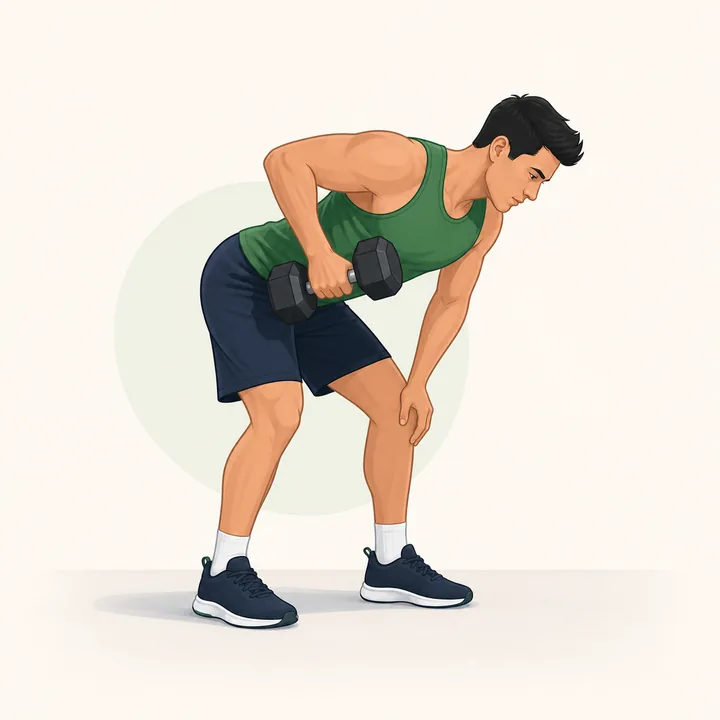
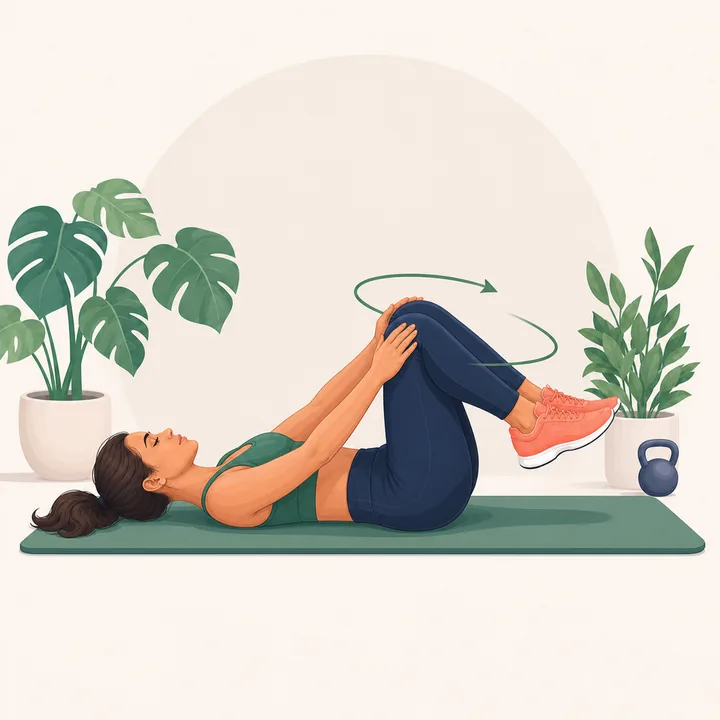
Update rowing exercise illustration

diff --git a/app.js b/app.js
@@ -2,7 +2,7 @@ const defaults = [
   { name: "Nâng hông", image: "assets/exercises/nang-hong.webp" },
   { name: "Chùng chân", image: "assets/exercises/chung-chan.webp" },
   { name: "Đứng tấn", image: "assets/exercises/dung-tan.webp" },
-  { name: "Rowing", image: "assets/exercises/rowing.webp" },
+  { name: "Rowing xoay chân", image: "assets/exercises/rowing.webp" },
   { name: "Nâng cao đùi", image: "assets/exercises/nang-cao-dui.webp" },
   { name: "Đạp xe", image: "assets/exercises/dap-xe.webp" }
 ];